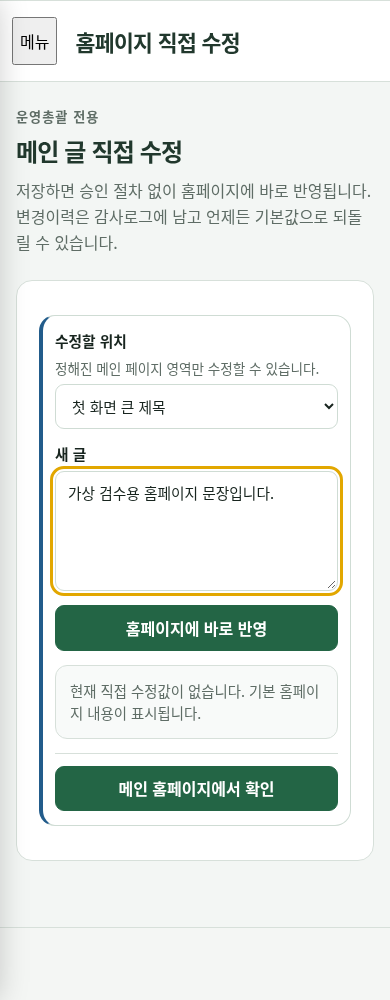
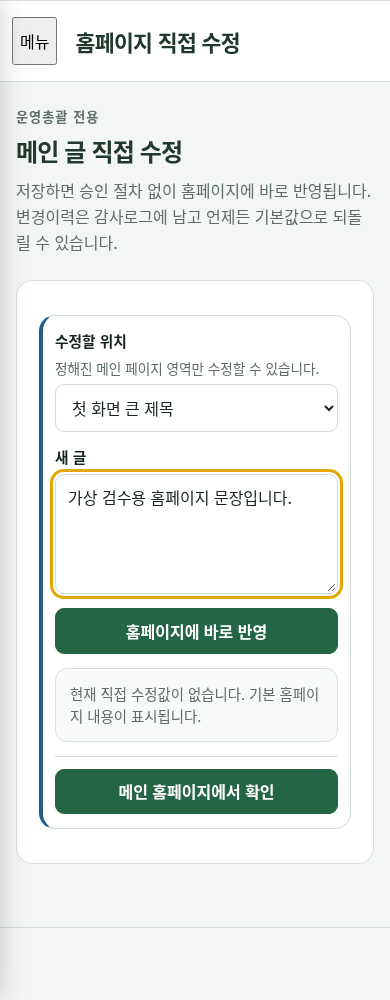
fix(admin): preserve readable controls and verify deployed authoring UI

Changed region(s): [[0.0923, 0.589, 0.8923, 0.837], [0.1231, 0.403, 0.8923, 0.527], [0.8308, 0.403, 0.8615, 0.434]]

diff --git a/app/assets/admin-authoring.css b/app/assets/admin-authoring.css
@@ -32,7 +32,7 @@
   box-sizing:border-box; width:100%; max-width:100%; min-width:0;
   min-height:var(--authoring-field-height,var(--authoring-control-height)); padding:10px 12px;
   border:1px solid var(--authoring-stroke); border-inline-start-width:var(--authoring-required-width,1px); border-radius:var(--authoring-radius);
-  background:#fff; color:var(--app-text,#1b3026); font:inherit; font-weight:400; line-height:1.5;
+  background:#fff; color:var(--app-text,#1b3026); font:inherit; font-size:1rem; font-weight:400; line-height:1.5;
 }
 :is(#desktop-app-shell,.app-authoring-dialog,.payroll-shell) :is(.app-authoring,.app-authoring-inline) textarea { --authoring-field-height:var(--authoring-textarea-height,120px); resize:vertical; }
 :is(#desktop-app-shell,.app-authoring-dialog,.payroll-shell) :is(.app-authoring,.app-authoring-inline) :required { --authoring-required-width:3px; }

diff --git a/docs/planning/qa/admin-authoring-ui/QA_REPORT.md b/docs/planning/qa/admin-authoring-ui/QA_REPORT.md
@@ -5,7 +5,7 @@
 
 ## 구현과 적용 범위
 
-공통 소유자는 `app/assets/admin-authoring.css`다. shell의 단일 import와 standalone 급여 페이지 link로 로드한다. 6,698 bytes / gzip 1,699 bytes. 신규 JS 런타임·의존성·CDN·역할별 렌더러·DB migration은 없다.
+공통 소유자는 `app/assets/admin-authoring.css`다. shell의 단일 import와 standalone 급여 페이지 link로 로드한다. 6,714 bytes / gzip 1,701 bytes. 신규 JS 런타임·의존성·CDN·역할별 렌더러·DB migration은 없다.
 
 실제 작성 소유자에 `app-authoring` 또는 `app-authoring-inline`을 명시하고 반복 label/control 선언을 제거했다. 업무별 DOM ID·필드·이벤트·RPC·저장 후 재조회·Session/JWT·승인선은 보존한다. 섹션·직원 기본/첨부 색상은 동일 토큰을 사용한다. 긴 본문은 폭과 최소 높이를 확보하고 임시저장/상신 버튼을 구분한다.
 
@@ -18,7 +18,7 @@
 | npm test | PASS — 1,209 (578 platform + 114 public + 517 payroll), 실패/skip 0 | 실제 기존 suite, DB 서버 실행과 구분 |
 | staging safety | PASS — 16, 실패/skip 0 | 기존 안전 guard |
 | build:netlify | PASS | dist/app/assets/admin-authoring.css 포함. 외부 Naver 이미지 38건 fetch 실패로 기존 local fallback 사용; 제품 소스·공개글 변경 없음 |
-| 기존 기능 gate HTTP | PASS — 10개 × PC/모바일 = 20 | 공개글 편집·가입승인·운영총괄 홍보·일반직원·홍보·사진첨부·보관/복구·링크·발행·사이드바 |
+| 기존 기능 gate HTTP | PASS — 11개 × PC/모바일 = 22 | 공개글 편집·가입승인·운영총괄 홍보·일반직원·홍보·사진첨부·보관/복구·링크·발행·사이드바 |
 | 공통 작성기 반응형/토큰 | PASS — 11개 × 4해상도 = 44 | 1440/768/390/320. 정적 실제 form 7개 + 직원등록/가입승인/홍보/지원 프로필. radius를 17px로 바꾸어 모든 renderer에 전파 확인 후 원복. 필수 테두리·섹션·44px 입력·22px checkbox·hidden 보존·overflow 확인 |
 | 지원사업 실패 입력 보존 | PASS — 4해상도 | 실제 renderer의 저장 RPC를 합성 실패시켜 회사명 보존 확인 |
 | admin-ui-browser | PASS — 4해상도 | 가입승인 기존/신규/사유, 키보드·체크박스, 홈페이지 수정 실패 입력 보존·권한 거부 |
@@ -27,8 +27,8 @@
 | 현장조사 기존 browser | PASS — 1440/390 | 기존 50명 합성 자료·사진 업로드 재시도·교정 실패 보존·필터. 공통 stylesheet와 shell 범위를 fixture에 로드 |
 | 급여 handoff 기존 자동화 | PASS — 390, Playwright 전송 | 기존 server/workspace/session/automation의 결과 노드가 pass. raw --dump-dom은 이 Chrome에서 종료하지 않아 중지; 같은 fixture/assertion을 Playwright로 실행. 실제 급여 미접근 |
 | diff/문법/서버 범위 | PASS | git diff --check, 신규 browser 문법. supabase/netlify/functions/staff/mobile 변경 0 |
-| 원격 CI | 미확인 | GitHub API proxy 403. 로컬 통과를 CI 통과라고 표시하지 않음 |
-| 개발 Deploy Preview | 미확인 | Draft PR/API·실제 Netlify 배포 및 exact-head 검증 필요. 고정 QA·Production 미변경 |
+| 원격 CI | 미확인 | 최초 HEAD는 공지 입력 16px 검사 실패. 원인 재현 후 수정하고 정확한 CI 결과는 PR 현재 HEAD를 따른다 |
+| 개발 Deploy Preview | 미확인 | Draft PR #494 생성. Netlify ready/commit_ref 대조 및 Preview 자산을 사용하는 browser CI 추가. 고정 QA·Production 미변경 |
 
 개발 환경의 기본 샌드박스는 일부 자식 프로세스 실행을 EPERM으로 차단하므로 허용된 실행 권한에서 같은 검사를 수행했다. file:// 탐색을 Chrome 정책이 차단해 기존 fixture를 HTTP로 실행했다. 새 `admin-authoring-browser.mjs`는 원래 기능 gate 결과 노드를 정확히 검사하며, script 안 PASS 문자열을 결과로 사용하지 않는다.
 
@@ -66,6 +66,8 @@ baseline 캡처: `AUTHORING_BASELINE_REF=b4df2ed66e03a8ba2e00efe56b079445b78dba7
 
 ## 남은 검수·승인
 
-Git push는 플랫폼 HTTPS 인증 경로로 가능하나 `api.github.com`은 proxy에서 Forbidden이다. 환경 설정 초안에는 GitHub/Netlify 허용 도메인이 이미 있지만 실행 중 환경에는 적용되지 않았다. 값/권한을 우회하지 않는다. 접근 복구 후 같은 branch로 Draft PR을 만들고 exact-head CI/Netlify 개발 Preview를 검증해야 한다. 사용자에게 최종 수용 검수를 요청할 준비가 됐다고 표시하지 않는다.
+Draft PR #494를 생성했다. 최초 API proxy 403은 이후 복구되어 Netlify API의 ready/HEAD를 확인했다. 클라우드에서 Preview hostname으로 직접 요청하는 것은 여전히 차단되어, GitHub CI에서 기존 UAR의 exact-head Preview 선택을 재사용해 배포된 HTML/CSS/JS로 동일 browser 검증을 수행한다. 실제 인증/권한 검증은 기존 CI 결과와 구분한다. 최종 CI·배포 ID·HEAD는 PR 검증 기록에서 대조한다.
 
 모든 개별 업무 경로에서 서버 쓰기를 실행한 것은 아니다. 인사·주민번호·급여·근태·공지·사진의 실제 데이터 변경 0, 로그인 계정 초기화 0, 운영 배포/고정 QA 교체 0이다. 실제 인증 환경의 최종 통합 Preview·휴대폰 키보드/카메라 사용감은 후속 확인 대상이다.
+
+최초 CI의 공지 작성 UX gate가 입력 글자 16px 미만을 검출했다. 같은 fixture로 로컬 재현 후 공통 control의 font-size를 1rem으로 고정했다. 기존 공지 gate를 새 shared HTTP 검사에도 포함하고 16px 이상 assertion을 추가했다. 기능 assertion을 완화하지 않았다.

diff --git a/docs/operations/ADMIN_AUTHORING_UI.md b/docs/operations/ADMIN_AUTHORING_UI.md
@@ -2,7 +2,7 @@
 
 상태: 사용자 요청에 따른 구현, Draft 검증 단계. 운영총괄을 기준으로 같은 렌더러를 재사용한다. main 병합·Production 배포·고정 QA 교체는 별도 최종 승인 전 실행하지 않는다.
 
-기준 main: `b4df2ed66e03a8ba2e00efe56b079445b78dba7c`. PR #487의 section/summary/check/action, #490의 직원사진·정렬, #491의 공지 목록/동일 ID 재조회 계약을 기준으로 조사했다. API의 PR 본문/리뷰 조회는 현재 네트워크 정책으로 차단되어 Git에 병합된 실제 변경과 문서를 읽었다.
+기준 main: `b4df2ed66e03a8ba2e00efe56b079445b78dba7c`. PR #487의 section/summary/check/action, #490의 직원사진·정렬, #491의 공지 목록/동일 ID 재조회 계약을 기준으로 조사했다. 조사 시 API 접근이 차단되어 Git의 실제 병합 변경과 문서를 읽었다. 이후 API가 복구되어 Draft PR #494를 생성했다.
 
 ## 단일 소유자
 
@@ -105,7 +105,7 @@
 
 ## 검증 경계
 
-- `tests/admin-authoring-browser.mjs`: 실제 HTML 폼 7개와 직원등록·가입승인·홍보작성·지원 프로필 렌더러, 1440/768/390/320px, 44px 입력/22px checkbox/공통 radius 토큰 변경 전파/hidden 보존/가로 넘침. 기존 10개 기능 gate를 PC·모바일 HTTP로 실행한다. 지원 프로필 저장 실패의 원문 보존을 직접 확인한다.
+- `tests/admin-authoring-browser.mjs`: 실제 HTML 폼 7개와 직원등록·가입승인·홍보작성·지원 프로필 렌더러, 1440/768/390/320px, 44px 입력/22px checkbox/공통 radius 토큰 변경 전파/hidden 보존/가로 넘침. 기존 11개 기능 gate를 PC·모바일 HTTP로 실행한다. 지원 프로필 저장 실패의 원문 보존을 직접 확인한다.
 - 기존 `admin-ui-browser.mjs`: 홈페이지 저장 실패 입력 보존, 권한 없는 direct edit 거부, 가입승인 입력과 keyboard. 기존 notice/promotion/employee 테스트의 저장·첨부·미리보기·승인·동일 ID 재조회 검증을 그대로 실행한다.
 - mock 데이터를 쓰는 browser/단위검사와 실제 서버 검증을 구분한다. 공통화 연결은 모든 위 대상에서 확인했지만 모든 업무 경로의 실제 서버 쓰기를 수행하지 않는다.
-- 추가 조치 필요: 원격 CI와 exact-head 통합 Deploy Preview 검증. 네트워크의 GitHub API·Netlify 접근이 복구된 뒤 Draft PR/실배포 SHA를 대조한다. 실제 직원·급여·운영공지 변경으로 검증하지 않는다.
+- 원격 검증: Draft PR #494와 exact-head 통합 Deploy Preview를 대조한다. 해당 배포 CSS/JS·실제 form HTML을 사용하는 browser 검사도 CI에 등록했다. 최종 결과는 PR의 현재 HEAD 검사와 QA 기록을 따른다. 실제 직원·급여·운영공지 변경으로 검증하지 않는다.

diff --git a/docs/planning/ADMIN_AUTHORING_UI_V1.md b/docs/planning/ADMIN_AUTHORING_UI_V1.md
@@ -8,7 +8,7 @@
 - 섹션/입력/버튼/도움말/첨부/미리보기의 규칙은 `../operations/ADMIN_AUTHORING_UI.md`에서 단일 기준으로 관리한다. 기존 form DOM ID와 RPC payload·JWT·RLS·승인선은 변경하지 않는다.
 - 범위: 관리자 전체 등록·수정 입력. 원래 정상인 조회/필터, 공개 홈페이지·직원앱·모바일앱, 브라우저 native 위험 확인은 제외한다. 급여/근태 표의 전문 배치·스크롤은 보존하고 셀 입력만 공통화한다.
 - 자동 검증: 합성 데이터의 1440/768/390/320px 전후 캡처, 실제 공통 토큰 변경 전파, 숨김 권한/체크박스/keyboard/overflow, 기존 저장·상신·승인·첨부·미리보기·오류 입력 보존 gate.
-- 외부 조건: GitHub API·Netlify 접근이 필요하다. 현재 Git HTTPS 접근과 달리 API는 proxy 403으로 차단된다. 실제 서버 데이터를 테스트로 수정하지 않는다.
+- 외부 조건: GitHub API·Netlify 접근이 필요하다. 조사 당시 API proxy 403이었으나 이후 GitHub/Netlify API가 복구되어 PR #494를 생성했다. 실제 서버 데이터를 테스트로 수정하지 않는다.
 - 배포 경계: Draft PR 및 해당 HEAD의 개발 Deploy Preview만 준비한다. 사용자 최종 승인 전 main merge·Ready 전환·Production·고정 QA 강제 교체 금지.
 
 | 확정 항목 | 현재 결과 |
@@ -17,5 +17,5 @@
 | 공통 폼/입력/버튼/섹션과 대상 renderer 연결 | 구현 완료: CSS·기존 owner class opt-in |
 | 역할별 복사본·신규 framework·DB 계약 추가 금지 | 준수: 스타일·class 중심 diff, DB/서버 미변경 |
 | PC/태블릿/모바일·기능 회귀·전후 캡처 | 로컬 검증 진행: QA_REPORT에 실제 결과 기록 |
-| Draft PR·exact-head CI·통합 개발 Preview | 추가 조치 필요: API/Preview 접근 복구 후 검증 |
+| Draft PR·exact-head CI·통합 개발 Preview | Draft PR #494 생성. 최신 HEAD의 CI·배포 자산 browser 검증 결과 대조 필요 |
 | 사용자 통합 검수·병합·운영 배포 | 미실행: 최종 승인 이후 |
